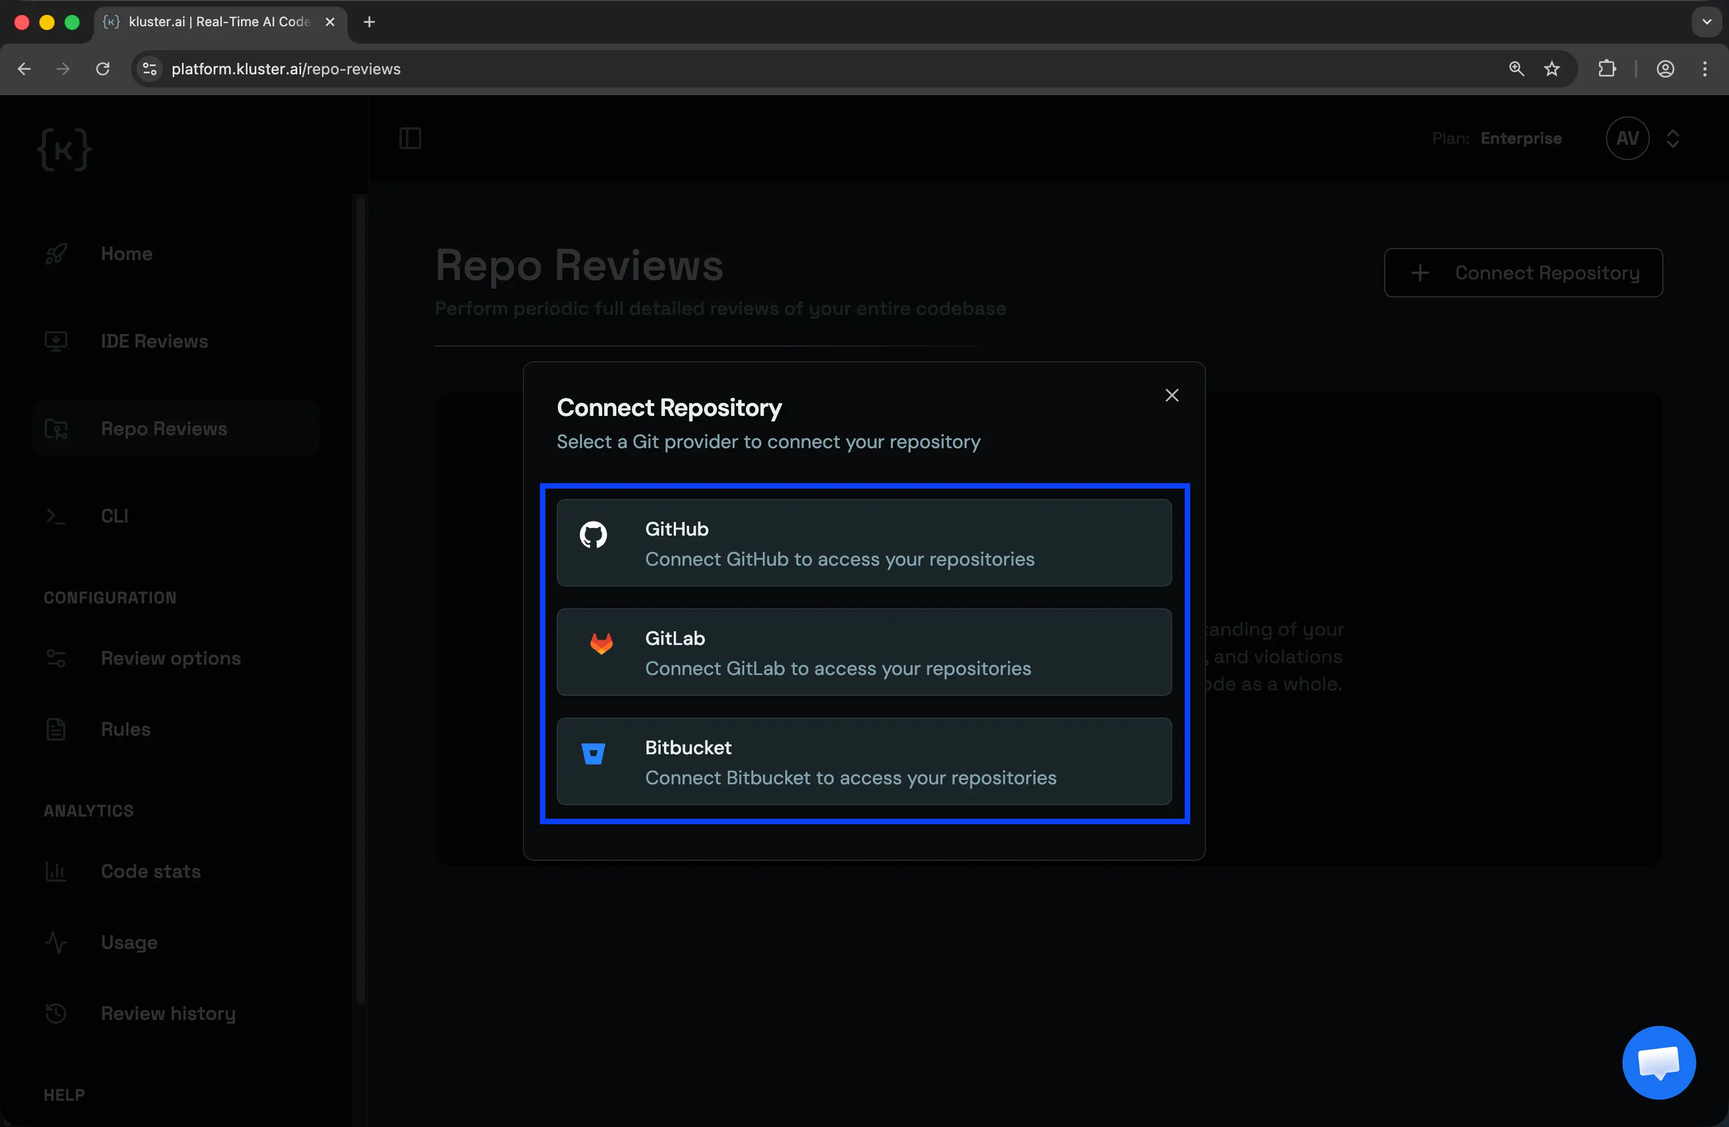
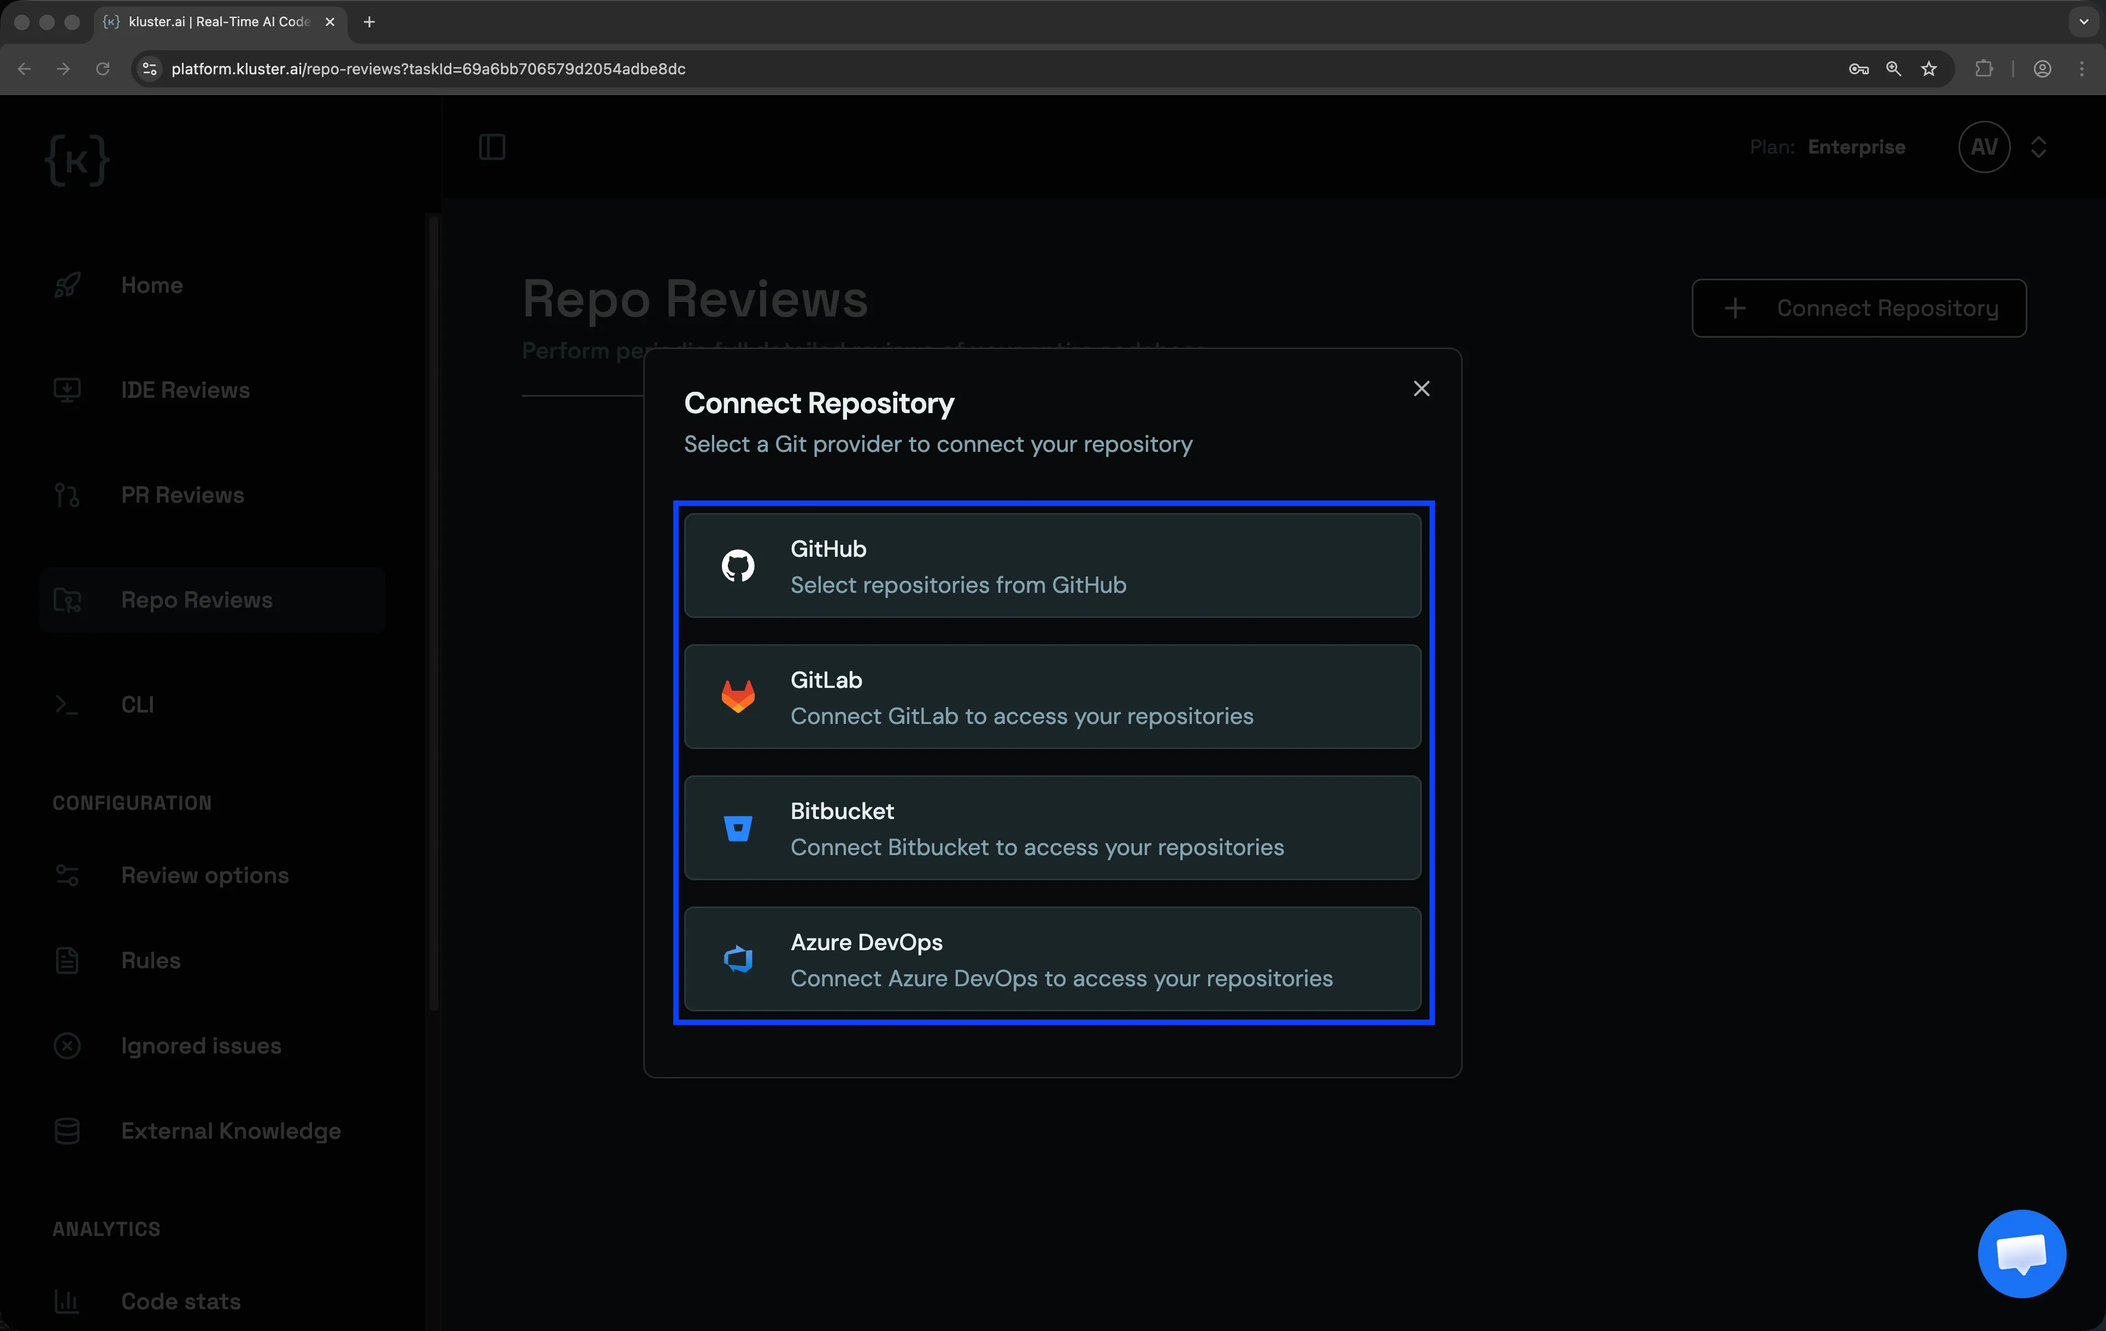
Add Azure DevOps support for PR reviews and repo reviews (#271)
* Add Azure DevOps support for PR reviews and repo reviews

New PR review integration page with admin consent flow, personal access
token setup, and connection instructions. Updated cross-references across
11 existing pages to include Azure DevOps. Added changelog entry for
custom AI rules support. Noted custom rules limitation for Azure DevOps.

* Add Azure DevOps support for PR reviews and repo reviews

New PR review integration page with admin consent flow, personal access
token setup, and connection instructions. Updated cross-references across
11 existing pages to include Azure DevOps. Added changelog entry for
custom AI rules support. Noted custom rules limitation for Azure DevOps.

---------

diff --git a/code-reviews/pr-reviews/azure-devops.md b/code-reviews/pr-reviews/azure-devops.md
@@ -1,0 +1,110 @@
+---
+title: Azure DevOps PR Reviews Setup
+description: Connect the kluster.ai bot to Azure DevOps to automatically review every pull request. Set up the integration with a personal access token in a few steps.
+categories: PR Reviews
+---
+
+# Azure DevOps
+
+Connect the [kluster.ai](https://www.kluster.ai/){target=\_blank} Code Review solution to your Azure DevOps repositories to automatically review every pull request. The setup uses a token-based integration that requires a personal access token and your organization URL before the bot can begin reviewing your pull requests.
+
+Before connecting, an administrator in your Azure DevOps organization must complete a one-time consent step directly from the kluster.ai platform. After that, any team member with the right permissions can generate a token and finish the setup.
+
+Once connected, the bot reviews every new pull request and every new commit pushed to an open pull request. No additional configuration is needed.
+
+--8<-- 'text/code-reviews/pr-reviews-tip.md'
+
+!!! warning "Custom rules not supported"
+    [Custom rules](/code-reviews/configuration/rules/) — including learned rules extracted from repositories — are not currently supported for Azure DevOps. Reviews use the default kluster analysis without project-specific rule customization.
+
+## Prerequisites
+
+Before getting started, ensure you have:
+
+- A [kluster.ai](https://platform.kluster.ai/signup){target=\_blank} account.
+- An Azure DevOps account with at least **Basic** access to the projects you want to review.
+- A personal access token with the required scopes. See [Create a personal access token](#create-a-personal-access-token) for instructions.
+
+## Admin consent
+
+Before anyone in your organization can connect kluster to Azure DevOps, an administrator or organization owner must grant consent. This is a one-time step per organization that applies to both PR reviews and repo reviews.
+
+The admin consent step appears as step 1 when you begin the Azure DevOps connection flow on the kluster.ai platform (see [Connect Azure DevOps](#connect-azure-devops)). If you are the organization admin, click **Open** to review and accept the required permissions. If you are not, click **Copy link** and share it with your organization admin to complete the consent.
+
+!!! note
+    Admin consent only needs to be completed once. After the admin accepts, all team members in the organization can connect their projects without repeating this step.
+
+## Create a personal access token
+
+The kluster.ai bot requires an Azure DevOps personal access token to access your repositories and post review comments. Tokens are created through your Azure DevOps user settings.
+
+!!! tip "Use a dedicated service account"
+    Reviews posted by the bot are attributed to the token owner. To avoid reviews appearing under a personal account, create a dedicated Azure DevOps account for kluster and generate the personal access token from that account.
+
+1. Sign in to the Azure DevOps account that will be associated with the kluster.ai bot reviews.
+2. Click your profile icon in the top-right corner and select **Personal access tokens** under the Security section. Alternatively, navigate directly to `https://dev.azure.com/{organization}/_usersSettings/tokens`.
+3. Click **New Token**. Enter a descriptive name (for example, "kluster.ai PR Reviews"), select your organization, and set an expiration date that aligns with your security policy.
+4. Under **Scopes**, select **Custom defined** and enable the following permissions:
+
+    |       Category       |         Scope          |                    Description                    |
+    |:--------------------:|:----------------------:|:-------------------------------------------------:|
+    |         Code         | **Read, write & manage** | Access repository content for code review.      |
+    |      Work Items      | **Read, write & manage** | Access work items linked to pull requests.      |
+
+    !!! tip
+        If you prefer not to configure individual scopes, you can select **Full access** instead.
+
+5. Click **Create**, then copy the token immediately. The token value is only displayed once and cannot be retrieved later.
+
+## Connect Azure DevOps
+
+With a [personal access token](#create-a-personal-access-token) ready, you can set up the Azure DevOps integration from the [PR Reviews](https://platform.kluster.ai/pr-bot-installation){target=\_blank} page on the kluster.ai platform.
+
+1. Navigate to [PR Reviews](https://platform.kluster.ai/pr-bot-installation){target=\_blank} in the kluster.ai platform. The PR Bot Installation page displays the Azure DevOps integration with two setup steps: **Admin consent required** and **Enter your Azure DevOps credentials**.
+
+2. **Complete admin consent** (one-time per organization). If you are the organization admin, click **Open** to review and accept the required permissions on the Azure DevOps site. If you are not an admin, click **Copy link** and share it with your organization admin. Once consent is granted, proceed to the next step.
+
+3. **Enter your Azure DevOps credentials**. Provide your organization URL (for example, `https://dev.azure.com/kluster-ai`) and your personal access token. Click **Save & Install**.
+
+    ![PR Bot Installation page showing Azure DevOps setup with Save & Install button](/images/code-reviews/pr-reviews/pr-reviews-azure-devops-01.webp)
+
+4. After the credentials are validated, a message confirms that the Azure DevOps integration is **Installed** and is ready to review your pull requests automatically.
+
+    ![Azure DevOps integration showing Installed status on kluster.ai](/images/code-reviews/pr-reviews/pr-reviews-azure-devops-02.webp)
+
+## What happens after setup
+
+Once the integration is connected, the kluster.ai bot begins reviewing pull requests automatically. No further action is required.
+
+### On new pull requests
+
+When a pull request is opened, the bot analyzes all changes using ultra-deep analysis and posts its feedback:
+
+- A **summary comment** titled **kluster.ai PR Review Summary**, which includes a description of the changes, the review result (All Clear or a list of detected issues), and a prior review warning if no IDE or CLI reviews were performed on the branch.
+
+    ![Example of a kluster.ai PR Review Summary comment on an Azure DevOps pull request](/images/code-reviews/pr-reviews/pr-reviews-azure-devops-04.webp)
+
+- **Inline comments** on specific lines where issues were found. Each inline comment includes a severity badge (for example, `semantic · high`), a description, a detailed explanation, a recommended action, and quick issue actions to ignore the finding or copy an AI prompt for fixing it.
+
+    ![Example of a kluster.ai inline comment on an Azure DevOps pull request](/images/code-reviews/pr-reviews/pr-reviews-azure-devops-03.webp)
+
+    When clicking **Ignore issue** or **Copy AI prompt**, you are taken to the kluster.ai platform. From there, you can access the ignore menu to dismiss the finding or view the prompt needed to feed an AI agent for fixing the issue, which is automatically copied to your clipboard.
+
+!!! warning "Bot comments appear under the token owner's name"
+    In Azure DevOps, the bot's comments are attributed to the user who created the personal access token. This is why a dedicated service account is recommended in the [Create a personal access token](#create-a-personal-access-token) section.
+
+### On new commits
+
+When new commits are pushed to an open pull request, the bot re-runs its analysis on the updated changes and updates its comments accordingly.
+
+### Prior review detection
+
+If kluster was used during development on the branch (via IDE or CLI), the bot's summary comment includes review statistics, such as the number of reviews performed, issues found, and issues left unfixed. If no prior reviews were detected, the bot includes a note encouraging earlier use of kluster in the development workflow.
+
+## Next steps
+
+- **[PR Reviews quickstart](/code-reviews/pr-reviews/quickstart/)**: Learn how the bot works across all supported platforms.
+- **[GitHub integration](/code-reviews/pr-reviews/github/)**: Connect the kluster.ai bot to GitHub via OAuth and the GitHub App.
+- **[GitLab integration](/code-reviews/pr-reviews/gitlab/)**: Connect the kluster.ai bot to GitLab via access token.
+- **[Bitbucket integration](/code-reviews/pr-reviews/bitbucket/)**: Connect the kluster.ai bot to Bitbucket via API token.
+- **[Review modes](/code-reviews/review-modes/)**: Understand all available review types.

diff --git a/code-reviews/repo-reviews/quickstart.md b/code-reviews/repo-reviews/quickstart.md
@@ -26,13 +26,13 @@ Learn how to run system-wide codebase analysis with [kluster.ai](https://www.klu
 Before getting started, ensure you have:
 
 - **A kluster.ai account**: Sign up on the [kluster.ai platform](https://platform.kluster.ai/signup){target=\_blank} if you don't have one.
-- **A connected repository**: You'll need to connect your GitHub, GitLab, or Bitbucket repository through the dashboard.
+- **A connected repository**: You'll need to connect your GitHub, GitLab, Bitbucket, or Azure DevOps repository through the dashboard.
 
 ## How repo reviews work
 
 Repo reviews analyze your entire codebase as a system instead of reviewing individual changes. When multiple parts of your code interact, issues emerge that don't show up in PR-level reviews.
 
-1. **Connect your repository**: Link your GitHub, GitLab, or Bitbucket repository to kluster.ai.
+1. **Connect your repository**: Link your GitHub, GitLab, Bitbucket, or Azure DevOps repository to kluster.ai.
 2. **Scan starts automatically**: Wait for the deep analysis to complete.
 3. **Review the findings**: Examine issues grouped by severity and type.
 
@@ -46,12 +46,15 @@ Go to the [Repo Reviews dashboard](https://platform.kluster.ai/repo-reviews){tar
 
 ![Repo Reviews dashboard with Connect Repository button](/images/code-reviews/repo-reviews/repo-reviews-setup-1.webp)
 
-Select your Git provider (GitHub, GitLab, or Bitbucket):
+Select your Git provider (GitHub, GitLab, Bitbucket, or Azure DevOps):
 
-![Select Git provider modal](/images/code-reviews/repo-reviews/repo-reviews-setup-2.webp)
+![Select Git provider dialog showing GitHub, GitLab, Bitbucket, and Azure DevOps](/images/code-reviews/repo-reviews/repo-reviews-setup-2.webp)
 
 !!! note "Trouble connecting to GitHub?"
     If your organization uses OAuth app access restrictions, you may need an org admin to approve the kluster.ai OAuth app before it can access your repositories. Refer to GitHub's guide on [approving OAuth apps for your organization](https://docs.github.com/en/organizations/managing-oauth-access-to-your-organizations-data/approving-oauth-apps-for-your-organization){target=\_blank} for details.
+
+!!! note "Connecting to Azure DevOps?"
+    Azure DevOps requires a one-time admin consent step before connecting. When you select Azure DevOps as your provider, the connection dialog shows an **Admin consent required** step. If you are the organization admin, click **Open** to accept the required permissions. If not, click **Copy link** and share it with your admin. This only needs to be done once for both PR reviews and repo reviews. See [Azure DevOps setup](/code-reviews/pr-reviews/azure-devops/#admin-consent) for details.
 
 Then choose the repository you want to analyze:
 

diff --git a/code-reviews/faq.md b/code-reviews/faq.md
@@ -179,11 +179,11 @@ Depending on repository size, repo reviews take several minutes. You'll receive 
 
 ### Can I run repo reviews on private repositories?
 
-Yes. Repo reviews work with both public and private repositories on GitHub, GitLab, and Bitbucket. The connection is secure and respects your repository permissions.
+Yes. Repo reviews work with both public and private repositories on GitHub, GitLab, Bitbucket, and Azure DevOps. The connection is secure and respects your repository permissions.
 
 ### Where can I access repo reviews?
 
-Repo reviews are available in the web dashboard at [platform.kluster.ai/repo-reviews](https://platform.kluster.ai/repo-reviews){target=\_blank} and via `kluster-cli`. After connecting your GitHub, GitLab, or Bitbucket repository, you can run `kluster review repo start` to trigger analysis and `kluster review repo show` to check results from terminal. See [Repo reviews from CLI](/code-reviews/cli/repo-reviews/).
+Repo reviews are available in the web dashboard at [platform.kluster.ai/repo-reviews](https://platform.kluster.ai/repo-reviews){target=\_blank} and via `kluster-cli`. After connecting your GitHub, GitLab, Bitbucket, or Azure DevOps repository, you can run `kluster review repo start` to trigger analysis and `kluster review repo show` to check results from terminal. See [Repo reviews from CLI](/code-reviews/cli/repo-reviews/).
 
 ### What do the Fix with AI, Snooze, and Ignore actions do?
 

diff --git a/code-reviews/pr-reviews/quickstart.md b/code-reviews/pr-reviews/quickstart.md
@@ -1,6 +1,6 @@
 ---
 title: PR Reviews Quickstart
-description: Automatically review every pull request with the kluster.ai bot. Get summary reports and inline comments on GitHub, GitLab, and Bitbucket.
+description: Automatically review every pull request with the kluster.ai bot. Get summary reports and inline comments on GitHub, GitLab, Bitbucket, and Azure DevOps.
 categories: PR Reviews
 ---
 
@@ -82,5 +82,13 @@ Every PR review runs at the **ultra-deep** analysis level automatically. This is
     Connect using a Bitbucket API token with repository and pull request permissions. Select the workspaces or repositories to monitor.
 
     [:octicons-arrow-right-24: Set up Bitbucket](/code-reviews/pr-reviews/bitbucket/)
+
+-   :material-microsoft-azure-devops: **Azure DevOps**
+
+    ---
+
+    Connect using an Azure DevOps personal access token. An admin must first grant consent on the Azure site.
+
+    [:octicons-arrow-right-24: Set up Azure DevOps](/code-reviews/pr-reviews/azure-devops/)
 
 </div>

diff --git a/code-reviews/get-started/pick-your-workflow.md b/code-reviews/get-started/pick-your-workflow.md
@@ -98,7 +98,7 @@ Use repo reviews to catch problems that slip through PR-level reviews:
 
 Repo reviews complement your existing review workflow. Run them periodically to surface issues that already exist in your codebase—problems that would otherwise remain hidden until they cause production incidents.
 
-**Available on**: Web dashboard and `kluster-cli` (requires GitHub, GitLab, or Bitbucket connection).
+**Available on**: Web dashboard and `kluster-cli` (requires GitHub, GitLab, Bitbucket, or Azure DevOps connection).
 
 !!! note "Usage limits"
     Pro plans include 1 repo review per month. Enterprise plans include higher limits. [Contact us](https://www.kluster.ai/contact){target=\_blank} to learn more.

diff --git a/code-reviews/pr-reviews/gitlab.md b/code-reviews/pr-reviews/gitlab.md
@@ -91,4 +91,5 @@ If kluster was used during development on the branch (via IDE or CLI), the bot's
 - **[PR Reviews quickstart](/code-reviews/pr-reviews/quickstart/)**: Learn how the bot works across all supported platforms.
 - **[GitHub integration](/code-reviews/pr-reviews/github/)**: Connect the kluster.ai bot to GitHub via OAuth and the GitHub App.
 - **[Bitbucket integration](/code-reviews/pr-reviews/bitbucket/)**: Connect the kluster.ai bot to Bitbucket via API token.
+- **[Azure DevOps integration](/code-reviews/pr-reviews/azure-devops/)**: Connect the kluster.ai bot to Azure DevOps via personal access token.
 - **[Review modes](/code-reviews/review-modes/)**: Understand all available review types.

diff --git a/code-reviews/pr-reviews/bitbucket.md b/code-reviews/pr-reviews/bitbucket.md
@@ -103,4 +103,5 @@ If kluster was used during development on the branch (via IDE or CLI), the bot's
 - **[PR Reviews quickstart](/code-reviews/pr-reviews/quickstart/)**: Learn how the bot works across all supported platforms.
 - **[GitHub integration](/code-reviews/pr-reviews/github/)**: Connect the kluster.ai bot to GitHub via OAuth and the GitHub App.
 - **[GitLab integration](/code-reviews/pr-reviews/gitlab/)**: Connect the kluster.ai bot to GitLab via access token.
+- **[Azure DevOps integration](/code-reviews/pr-reviews/azure-devops/)**: Connect the kluster.ai bot to Azure DevOps via personal access token.
 - **[Review modes](/code-reviews/review-modes/)**: Understand all available review types.

diff --git a/code-reviews/pr-reviews/github.md b/code-reviews/pr-reviews/github.md
@@ -80,4 +80,5 @@ If kluster was used during development on the branch (via IDE or CLI), the bot's
 - **[PR Reviews quickstart](/code-reviews/pr-reviews/quickstart/)**: Learn how the bot works across all supported platforms.
 - **[GitLab integration](/code-reviews/pr-reviews/gitlab/)**: Connect the kluster.ai bot to GitLab via access token.
 - **[Bitbucket integration](/code-reviews/pr-reviews/bitbucket/)**: Connect the kluster.ai bot to Bitbucket via API token.
+- **[Azure DevOps integration](/code-reviews/pr-reviews/azure-devops/)**: Connect the kluster.ai bot to Azure DevOps via personal access token.
 - **[Review modes](/code-reviews/review-modes/)**: Understand all available review types.

diff --git a/code-reviews/changelogs.md b/code-reviews/changelogs.md
@@ -9,6 +9,16 @@ footer_nav: true
 
 Stay up to date with the latest changes to kluster.ai Code Reviews. This page lists new features, improvements, and bug fixes in reverse chronological order. Entries are grouped by month so you can quickly find what changed and when.
 
+## April 2026
+
+::timeline::
+
+- title: Custom AI rules support for code reviews
+  sub_title: "2026-04-06"
+  content: Added the ability to include project and global AI rules (such as AGENTS.md and CLAUDE.md) as part of code review. Supported in VS Code-based IDEs, MCP integrations, and JetBrains.
+
+::/timeline::
+
 ## March 2026
 
 ::timeline::

diff --git a/code-reviews/configuration/rules.md b/code-reviews/configuration/rules.md
@@ -27,6 +27,9 @@ To accommodate different workflows, Code Reviews supports two types of rules:
 
     ![Connect to GitHub](/images/code-reviews/configuration/rules/rules-01.webp)
 
+    !!! note
+        Rule extraction and project-specific learned rules are currently available for GitHub repositories only. Azure DevOps, GitLab, and Bitbucket repositories do not support automatic rule extraction at this time.
+
 3. Click **Add review rule** to create custom rules.
 
     ![Add review rule button](/images/code-reviews/configuration/rules/rules-02.webp)

diff --git a/code-reviews/review-modes.md b/code-reviews/review-modes.md
@@ -73,7 +73,7 @@ Common issues found by repo reviews include:
 
 Repo reviews complement PR-level reviews by revealing problems that already exist in your system—issues that would remain hidden until something breaks.
 
-**Available on**: Web dashboard and kluster-cli (requires GitHub, GitLab, or Bitbucket connection)
+**Available on**: Web dashboard and kluster-cli (requires GitHub, GitLab, Bitbucket, or Azure DevOps connection)
 
 [:octicons-arrow-right-24: Get started with repo reviews](/code-reviews/repo-reviews/quickstart/)
 
